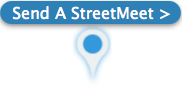
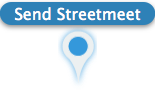
making app 1 page

diff --git a/js/oneMap.js b/js/oneMap.js
@@ -11,7 +11,10 @@ angular.module('sm-meetApp.oneMap',  ['firebase', 'ngCookies'])
     var geocoder = new google.maps.Geocoder();
     geocoder.geocode({'latLng': map.getCenter()}, function(results, status) {
       if (status == google.maps.GeocoderStatus.OK) {
-        $scope.reverseAddress = results[0].formatted_address;
+        $scope.numberReverseAddress = results[0].address_components[0].short_name;
+        $scope.streetReverseAddress = results[0].address_components[1].short_name;
+        $scope.fullReverseAddress = results[0].formatted_address;
+        console.log(results);
         $cookieStore.put("addressBox", $scope.reverseAddress)
         $scope.$apply();
       } else {
@@ -48,13 +51,7 @@ angular.module('sm-meetApp.oneMap',  ['firebase', 'ngCookies'])
     map = OneMap.getMap();
     $('<div/>').addClass('centerMarker').appendTo(map.getDiv())
     .click(function(){
-      $q(function(resolve, reject) {
-        $('.centerMarker').remove();
-        resolve();
-      }).then(function() {
-        $cookieStore.put('eventLoc', map.getCenter());
-        $state.transitionTo('sendLoc');
-      })
+      $cookieStore.put('eventLoc', map.getCenter());
     });
     // location input bar with autocomplete
     var input = /** @type {HTMLInputElement} */(
@@ -63,15 +60,8 @@ angular.module('sm-meetApp.oneMap',  ['firebase', 'ngCookies'])
     // google maps autocomplete
     var autocomplete = new google.maps.places.Autocomplete(input);
     autocomplete.bindTo('bounds', map);
-    var infowindow = new google.maps.InfoWindow();
-    var locationBoxMarker = new google.maps.Marker({
-      map: map,
-      anchorPoint: new google.maps.Point(0, -29)
-    });
 
     google.maps.event.addListener(autocomplete, 'place_changed', function() {
-      infowindow.close();
-      locationBoxMarker.setVisible(false);
       var place = autocomplete.getPlace();
       if (!place.geometry) {
         return;
@@ -84,15 +74,6 @@ angular.module('sm-meetApp.oneMap',  ['firebase', 'ngCookies'])
         map.setCenter(place.geometry.location);
         map.setZoom(17);  // Why 17? Because it looks good.
       }
-      locationBoxMarker.setIcon(/** @type {google.maps.Icon} */({
-        url: place.icon,
-        size: new google.maps.Size(71, 71),
-        origin: new google.maps.Point(0, 0),
-        anchor: new google.maps.Point(17, 34),
-        scaledSize: new google.maps.Size(35, 35)
-      }));
-      locationBoxMarker.setPosition(place.geometry.location);
-      locationBoxMarker.setVisible(true);
 
       var address = '';
       if (place.address_components) {
@@ -103,8 +84,7 @@ angular.module('sm-meetApp.oneMap',  ['firebase', 'ngCookies'])
         ].join(' ');
       }
 
-      infowindow.setContent('<div><strong>' + place.name + '</strong><br>' + address);
-      infowindow.open(map, locationBoxMarker);
+      populateAddress();
       $cookieStore.put('addressBox', address);
     });
     populateAddress();
@@ -207,9 +187,9 @@ angular.module('sm-meetApp.oneMap',  ['firebase', 'ngCookies'])
     //   // We're out of bounds - Move the map back within the bounds
     //   map.panToBounds(bounds)
     //  });
-    google.maps.event.addListener(map, 'zoom_changed', function() {
-       if (map.getZoom() < 14) map.setZoom(14);
-     });
+    // google.maps.event.addListener(map, 'zoom_changed', function() {
+    //    if (map.getZoom() < 14) map.setZoom(14);
+    //  });
   };
 
   // show attendees converging to an event on the screen

diff --git a/css/styles2.css b/css/styles2.css
@@ -205,11 +205,11 @@ li.slide-controls, li.item.slide-controls{
   height: 10%
 }
 
-.hTabs{
+/*.hTabs{
   padding: 0;
   height: 10%;
   display: flex;
-}
+}*/
 
 .header-tab{
   width: 50%;
@@ -749,6 +749,29 @@ ul.settings-list{
 
 
 /******* Map Pages ********/
+.hTabs {
+  width: 100%;
+  height: 15%;
+  background: #2c3e50;
+  font-family: 'Josefin Slab', serif;
+  color: #fff;
+  /*padding: .75em 0;*/
+  /*padding-top: .2em;*/
+  padding-left: .5em;
+  border: none;
+
+}
+
+.short-address {
+  font-size: 1.25em;
+  font-weight: 600;
+  padding-top: 1.25em;
+}
+
+.long-address {
+  font-size: .8em;
+  padding-top: 1.25em;
+}
 
 #map-canvas {
   width: 100%;
@@ -762,7 +785,7 @@ ul.settings-list{
 
 .map {
   width: 100%;
-  height: 100%;
+  height: 85%;
 }
 
 .scroll {
@@ -770,17 +793,21 @@ ul.settings-list{
   width: 100%;
 }
 
+.gmnoprint {
+  display: none;
+}
+
 #map-canvas .centerMarker{
   position: absolute;
-  background: url(../img/icon_send_streetmeet.png) no-repeat;
+  background: url(../img/icon_map_event_blue.png) no-repeat;
   /*background: url(../img/icon_map_create_blue.png) no-repeat;*/
   top: 50%;
   left: 50%;
   z-index: 1;
-  margin-left: -81px;
-  margin-top: -79px;
-  height: 114px;
-  width: 181px;
+  margin-left: -20px;
+  margin-top: -80px;
+  height: 60px;
+  width: 40px;
   cursor: pointer;
 }
 
@@ -804,7 +831,7 @@ ul.settings-list{
     text-overflow: ellipsis;
     position: absolute;
     left: 5%;
-    top: 8%;
+    top: 5%;
     z-index: 5;
   }
 

diff --git a/views/map.html b/views/map.html
@@ -5,15 +5,10 @@
     <input id="pac-input" class="controls" type="text" placeholder="Enter a location" ng-model="reverseAddress">
     <div id="map-canvas" data-tap-disabled="true"></div>
   </div>
-  <div class="settings-btn">
-    <a ui-sref="settings">
-      <i class="fa fa-cog"></i>
-    </a>
-  </div>
 
-  <!-- <div class="hTabs" >
-      <button class="header-tab-full create-toggle" ng-click=" toggleItem($event, 'button', '.create-toggle'); createEventMarker();" ng-hide="isEvent">Send A StreetMeet</button>
-      <button class="btn-red header-tab-full create-toggle toggledOff cancel-btn" ng-click="toggleItem($event, 'button', '.create-toggle'); cancelCreateEvent();" ng-hide="isEvent">Cancel</button>
-      <button class="header-tab-full" ng-show="isEvent" ui-sref="attendEvent({id: event})">Attendee Map</button>
-  </div> -->
+  <div class="hTabs" >
+      <div class="short-address">{{numberReverseAddress}} {{streetReverseAddress}}</div>
+      <div class="long-address">{{fullReverseAddress}}</div>
+
+  </div>
 </div>
